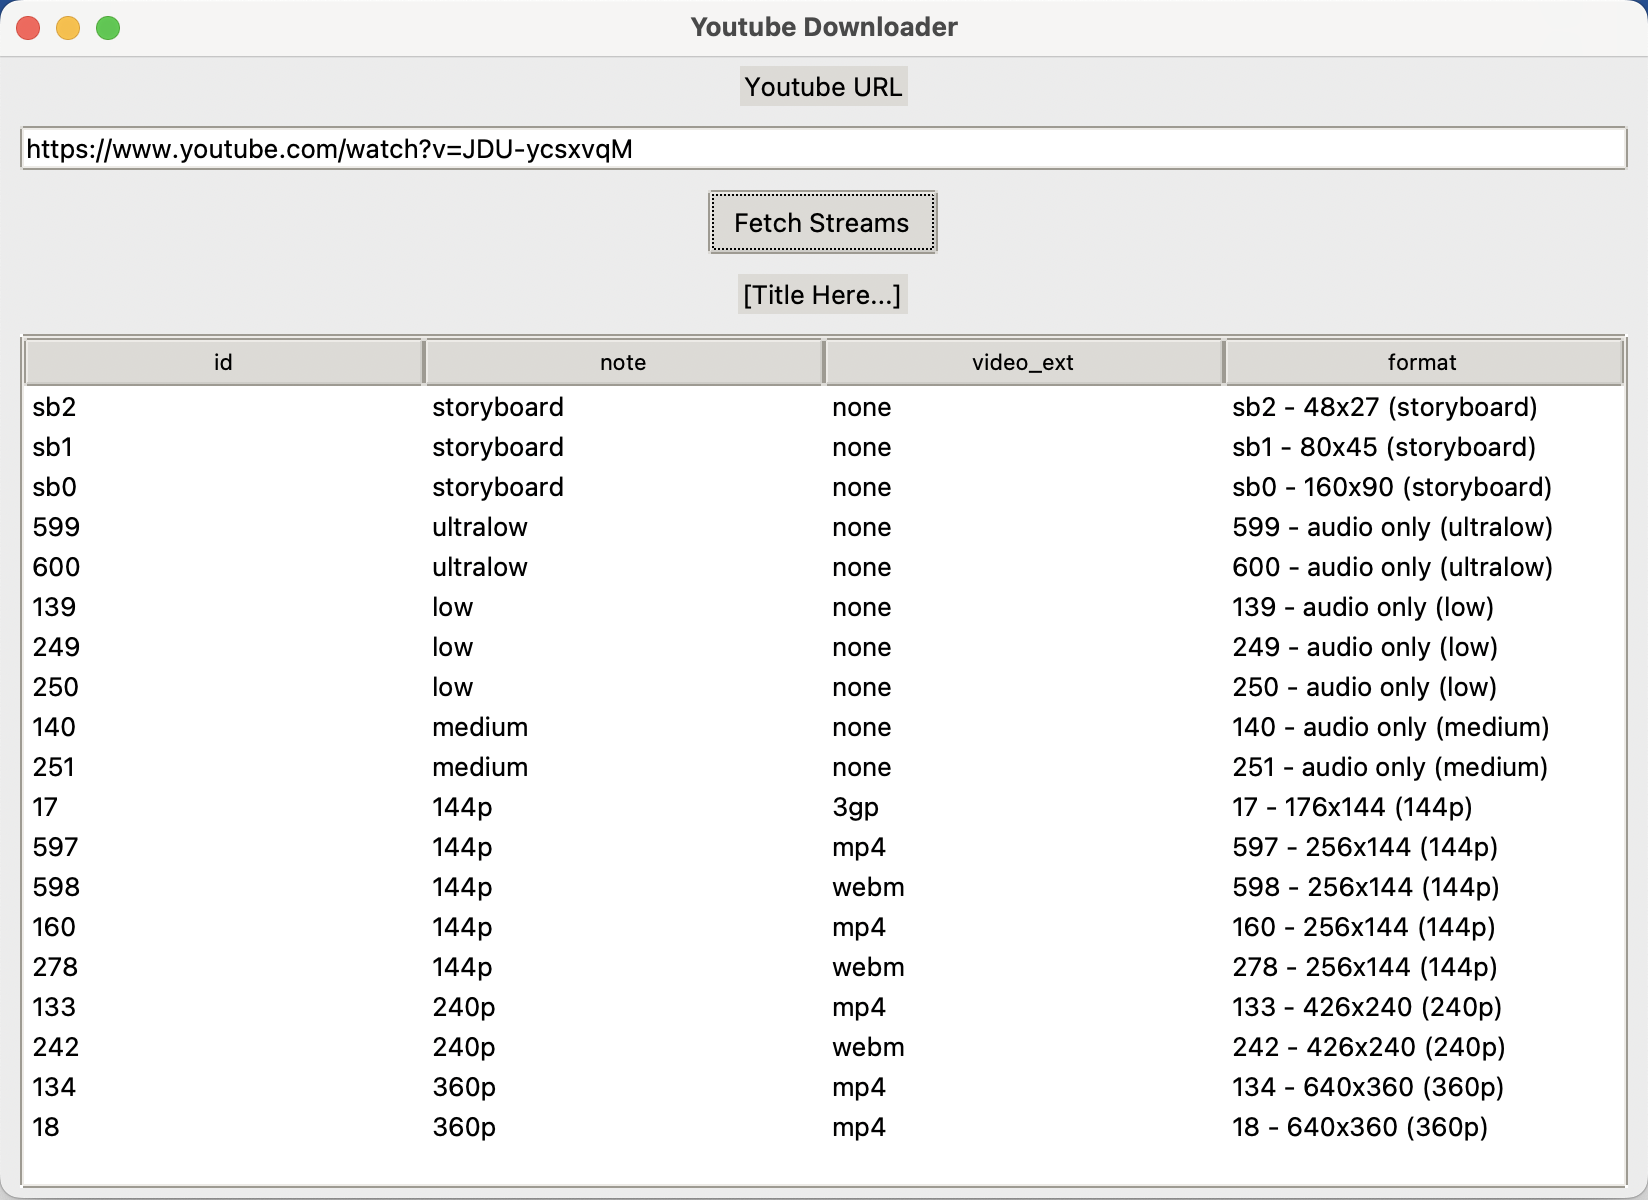
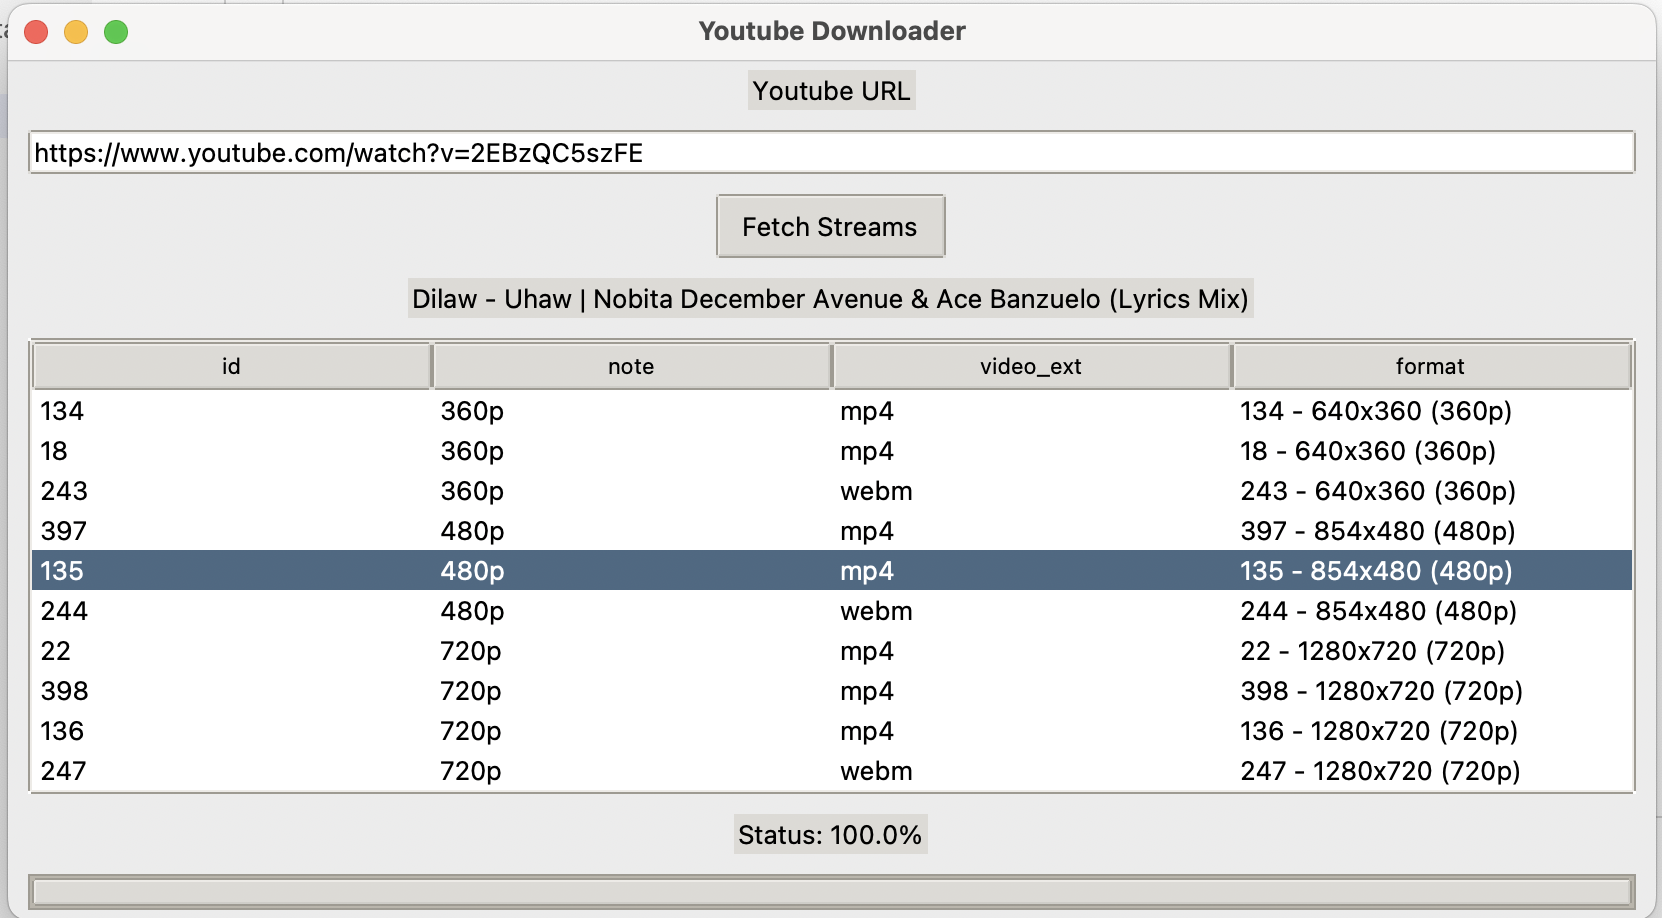
Put the progress to separate thread

Changed region(s): [[0.0, 0.0, 1.0, 1.0], [0.9903, 0.0, 1.0, 0.0305]]

diff --git a/main.py b/main.py
@@ -3,6 +3,8 @@ from downloader import DownloaderDlp
 import tkinter as tk
 from tkinter import ttk, messagebox
 
+import threading
+
 class MainFrame(tk.Frame):
     def __init__(self, master=None):
         super().__init__(master=master)
@@ -16,20 +18,28 @@ class MainFrame(tk.Frame):
         self.txt_url = ttk.Entry(self.master, width=40)
         btn_fetch_streams = ttk.Button(self.master, 
                                        text='Fetch Streams')
-        btn_fetch_streams.bind('<Button-1>', self.btn_fetch_clicked)
         self.lbl_video_title = ttk.Label(self.master, text='[Title Here...]')
         self.table = ttk.Treeview(self.master, 
                                   show='headings', 
                                   columns=('itag', 'mime_type', 'resolution', 'type'))
 
         tbl = self.table
-        tbl.bind('<Double-1>', self.row_double_clicked)
 
         lbl_url.pack(pady=5)
         self.txt_url.pack(padx=10, pady=5, fill='x')
         btn_fetch_streams.pack(pady=5)
         self.lbl_video_title.pack(pady=5)
         tbl.pack(padx=10, pady=5, fill='both', expand=True)
+
+        self.lbl_percent = ttk.Label(self.master, text='Status: 0%')
+        self.lbl_percent.pack(pady=5)
+
+        self.progress_bar = ttk.Progressbar(self.master, orient='horizontal', mode='determinate', maximum=100, value=0)
+        self.progress_bar.pack(padx=10, pady=5, fill='x')
+
+        # Bindings
+        btn_fetch_streams.bind('<Button-1>', self.btn_fetch_clicked)
+        tbl.bind('<Double-1>', self.row_double_clicked)
 
     def btn_fetch_clicked(self, event):
         url = self.txt_url.get()  # Fetch the URL from the input
@@ -41,7 +51,7 @@ class MainFrame(tk.Frame):
             return
         
         # Initialize the downloader object
-        self.downloader = DownloaderDlp(self.txt_url.get())
+        self.downloader = DownloaderDlp(self.txt_url.get(), self.progress_bar, self.lbl_percent)
 
         # Update the title of the video in the UI
         self.lbl_video_title.config(text=self.downloader.get_title())
@@ -91,8 +101,9 @@ class MainFrame(tk.Frame):
         selected_item = self.table.selection()[0]
         values = self.table.item(selected_item, 'values')
         id = values[0]
-        self.downloader.download(id)
 
+        thread_download = threading.Thread(target=self.downloader.download, args=[id])
+        thread_download.start()
 
 
 if __name__ == '__main__':

diff --git a/downloader.py b/downloader.py
@@ -7,8 +7,10 @@ if hasattr(ssl, '_create_unverified_context'):
 
 
 class DownloaderDlp:
-    def __init__(self, url: str):
+    def __init__(self, url: str, ui_progress, ui_progress_label):
         self.url = url
+        self.ui_progress = ui_progress
+        self.ui_progress_label = ui_progress_label
 
     def fetch_streams(self):
         """
@@ -59,7 +61,37 @@ class DownloaderDlp:
             format_id (str): The format id selected.
         """
         ydl_options = {
-            'format': format_id
+            'format': format_id,
+            'progress_hooks': [self.update_progress]
         }
         with yt_dlp.YoutubeDL(ydl_options) as ydl:
             ydl.download([self.url])
+
+    def update_progress(self, progress):
+        """
+        Callback for the progress of download.
+
+        Args:
+            progress (dict): Dictionary of the progress, automatically passed.
+        """
+        if progress['status'] == 'downloading':
+            downloaded_bytes = progress['downloaded_bytes']  # Get the current downloaded bytes
+            total_bytes = progress['total_bytes_estimate']  # Get the estimated total bytes
+
+            percent = 0.0
+
+            if total_bytes:
+                percent = round(downloaded_bytes / total_bytes * 100, 2)
+
+                if self.ui_progress:
+                    self.ui_progress.master.after(10, self.update_uis(percent))
+
+    def update_uis(self, percent: float):
+        """
+        Update the label and progress bar of the UI.
+
+        Args:
+            percent (float): The percentage of the download.
+        """
+        self.ui_progress.config(value=percent)
+        self.ui_progress_label.config(text=f'Status: {percent}%')
